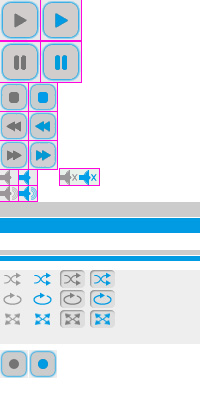
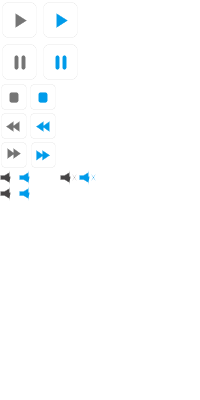
Updated GUI with "slate" colourscheme

Changed region(s): [[0.0, 0.0, 1.0, 0.84], [0.0, 0.87, 0.3, 0.96]]

diff --git a/root/css/theme.css b/root/css/theme.css
@@ -1,14 +1,15 @@
 
 #centreContainer
 {
-	border-right: 1px solid grey;
-	border-left: 1px solid grey;
+//	border-right: 1px solid grey;
+//	border-left: 1px solid grey;
 }
 
 #playerControlsContainer
 {
-	border-top: 1px solid grey;
+//	border-top: 1px solid grey;
 	//font-size: larger;
+	background: -o-linear-gradient(rgba(0,0,0,1),rgba(40,40,40,1));
 }
 
 div.containerPadding 
@@ -23,14 +24,20 @@ html, #loginForm
 	font-size: small;
 }
 
-#playerControlsContainer
+#playerControlsContainer, #topBarContainer
 {
-	background-color:#eee;
+	color: white;
+	text-shadow: grey 1px -1px 1px;
 }
 
 #playlistContainer, #folderbrowserContainer, #centreContainer
 {
 	background-color: #fafafa;
+}
+
+#folderbrowserContainer, #playlistContainer 
+{
+	border-bottom: 3px solid black;
 }
 
 #playlistTracks, #folderbrowserContainer
@@ -65,14 +72,17 @@ html, #loginForm
 
 #topBarContainer 
 {
+	border-bottom: 0px;
 	padding: 0ex 1ex;
 	text-align: right;
+	background: -o-linear-gradient(rgba(40,40,40,1), rgba(30,30,30,1));
+	color: white;
 }
 
 #topBarContainer a, #trackListAddControls a
 {
 	font-weight: bold;
-	color: black;
+	color: inherit;
 }
 
 #trackListAddControls

diff --git a/root/css/jQuery.jPlayer.Theme/jplayer.ultrasonic.css b/root/css/jQuery.jPlayer.Theme/jplayer.ultrasonic.css
@@ -163,7 +163,6 @@ a.jp-next:hover {
 
 div.jp-progress {
 	overflow:hidden;
-	background-color: #ddd;
 	display: inline-block;
 }
 div.jp-audio div.jp-progress {
